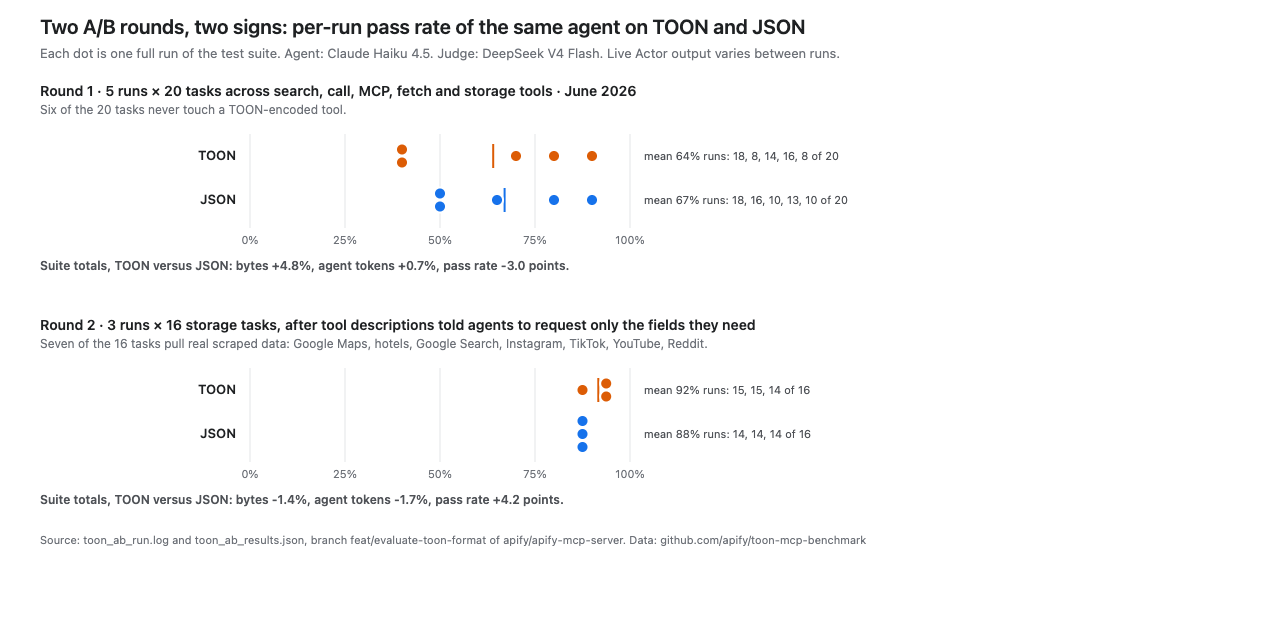
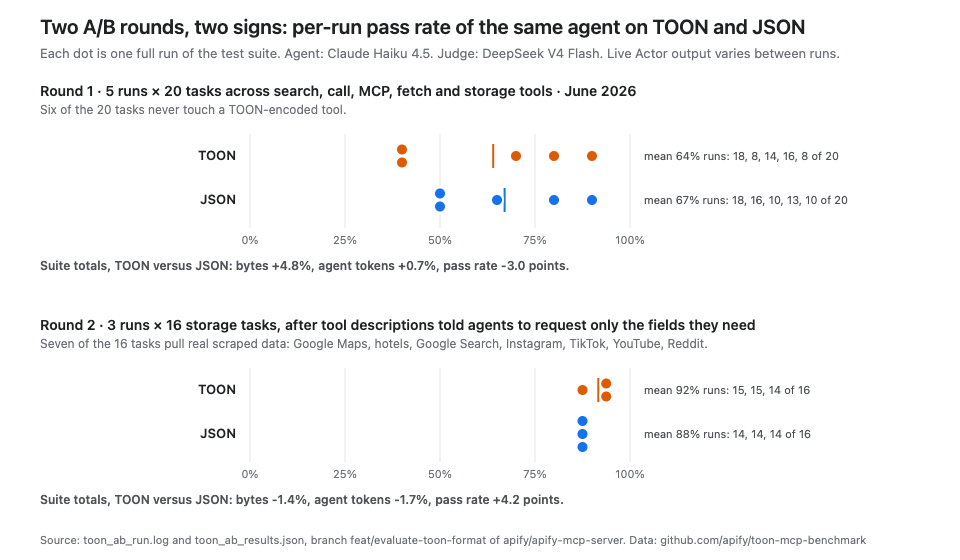
Reproducible PNG render, evidenced fig1 callout, tool-call share, round-two intervention evidence

diff --git a/charts/make_charts.py b/charts/make_charts.py
@@ -60,8 +60,8 @@ def fig1():
     plot_w = W - left - right; rowh = 48; barh = 22
     xmin, xmax = -50, 5
     def X(v): return left + (v - xmin) / (xmax - xmin) * plot_w
-    b = header("What the proposal measured: TOON versus JSON, bytes, 18 fixtures",
-               "Payload size change per MCP tool, negative means TOON is smaller. Spec of 2026-05-13; adaptive picker on captured API payloads.")
+    b = header("What the proposal measured: adaptive picker versus JSON, bytes, 18 fixtures",
+               "Byte change per MCP tool when the smaller of JSON and dot-flattened TOON is chosen per payload. Negative means smaller. Proposal of May 13, 2026.")
     for tick in (-50, -40, -30, -20, -10, 0):
         b += f'<line x1="{X(tick):.1f}" y1="{top - 8}" x2="{X(tick):.1f}" y2="{top + rowh * len(rows)}" stroke="{GRID if tick else INK2}" stroke-width="1"/>'
         b += text(X(tick), top + rowh * len(rows) + 18, f"{tick:+d}%" if tick else "0", 11, MUTED, "middle")
@@ -73,8 +73,8 @@ def fig1():
         b += text(X(v) - 8, y + barh / 2 + 4, f"{v:+.1f}%", 12, INK, "end", 600)
     # callout on dataset-items
     yi = top + 4 * rowh + rowh / 2
-    b += text(X(0) + 12, yi - 4, "carries most production traffic", 12, INK2, weight=600)
-    b += text(X(0) + 12, yi + 12, "and saved about one percent", 12, INK2)
+    b += text(X(0) + 12, yi - 4, "99.8% of the calls to these five tools", 12, INK2, weight=600)
+    b += text(X(0) + 12, yi + 12, "(June 9 to July 9, 2026), and it saved 1.2%", 12, INK2)
     b += text(40, top + rowh * len(rows) + 48,
               f"Combined across all 18 fixtures: {float(combined['bytes_delta_pct_vs_json']):+.1f}%. The picker chose TOON for 10 fixtures and JSON for 8.", 12, INK2)
     b += footer(h, "Source: res/toon_format_adoption.md in apify/apify-mcp-server (PR #836). Data and code: github.com/apify/toon-mcp-benchmark")

diff --git a/data/PROVENANCE.md b/data/PROVENANCE.md
@@ -55,6 +55,18 @@ Same harness, 3 runs per format × 16 storage-category tests, concurrency 2, aft
 agents to request only the fields they need (`2e639fba`). Ran after Execution A (it includes test cases added on 2026-06-26).
 `rawRuns` carries per-test prompt/completion token splits, turns and duration.
 
+### Tool-call share during the TOON window (`tool-call-share-toon-window.json`)
+Aggregate counts of the `MCP Tool Call` analytics event by `tool_name` for 2026-06-09 to 2026-07-09 (Apify production analytics, Mixpanel project 2860297), queried 2026-09-10.
+Total tool calls in the window: 5,702,429. `get-dataset-items`: 1,568,921 (27.5%). The other four TOON-encoded tools combined: 3,770 (0.07%).
+These are call counts, not bytes, and they are the only production-traffic figures in this repository. Only the five affected tools and the total are published.
+
+### Round-two intervention (`2e639fba-tool-description.diff`)
+`git show` of upstream commit `2e639fba` (2026-06-25, "feat: added aggressive filtering to tool description"), the change to the `get-dataset-items` tool description
+that pushes agents to pass `fields`, `limit`, `clean` and `omit`. It is the intervention between Execution A and Execution B. Not an upstream blob, so it has no MANIFEST row; verify with `git show 2e639fba -- src/tools/common/get_dataset_items.ts` in a clone.
+
+### Which round-one tasks never touched a TOON tool
+Derivable from `execution-a.csv`: for six test ids the per-run `result_bytes` are identical between the two arms in every run (`search-google-maps`, `search-tiktok-scrapers`, `search-generic-scrapers`, `fetch-details-mcp-tools-list`, `fetch-details-mcp-tools-then-call`, `fetch-details-non-mcp-actor-graceful`). Those tasks call no TOON-encoded tool.
+
 ## Caveats that travel with the data
 - Live Actor output varies between calls, so unseeded tests are not strictly paired between arms.
 - Pass/fail comes from an LLM judge; per-run pass counts in Execution A swing between 8 and 18 out of 20.
